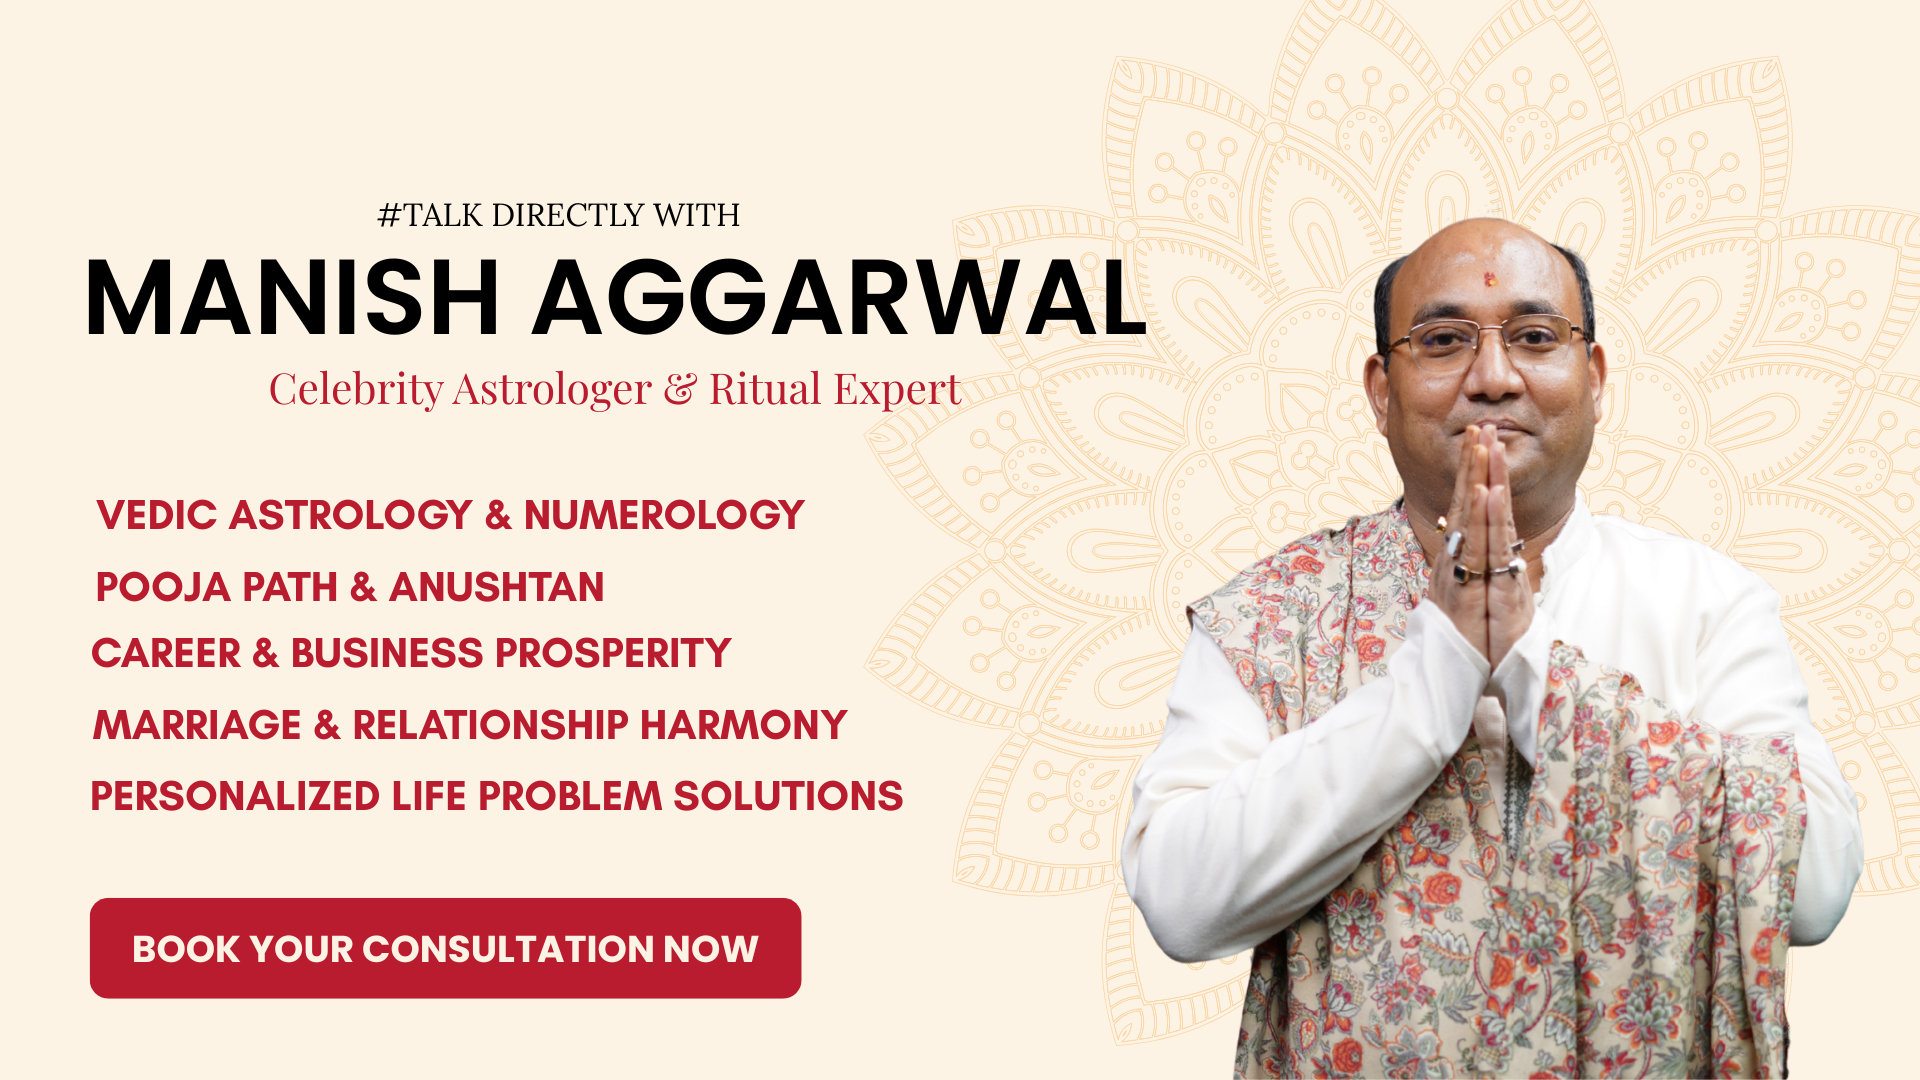
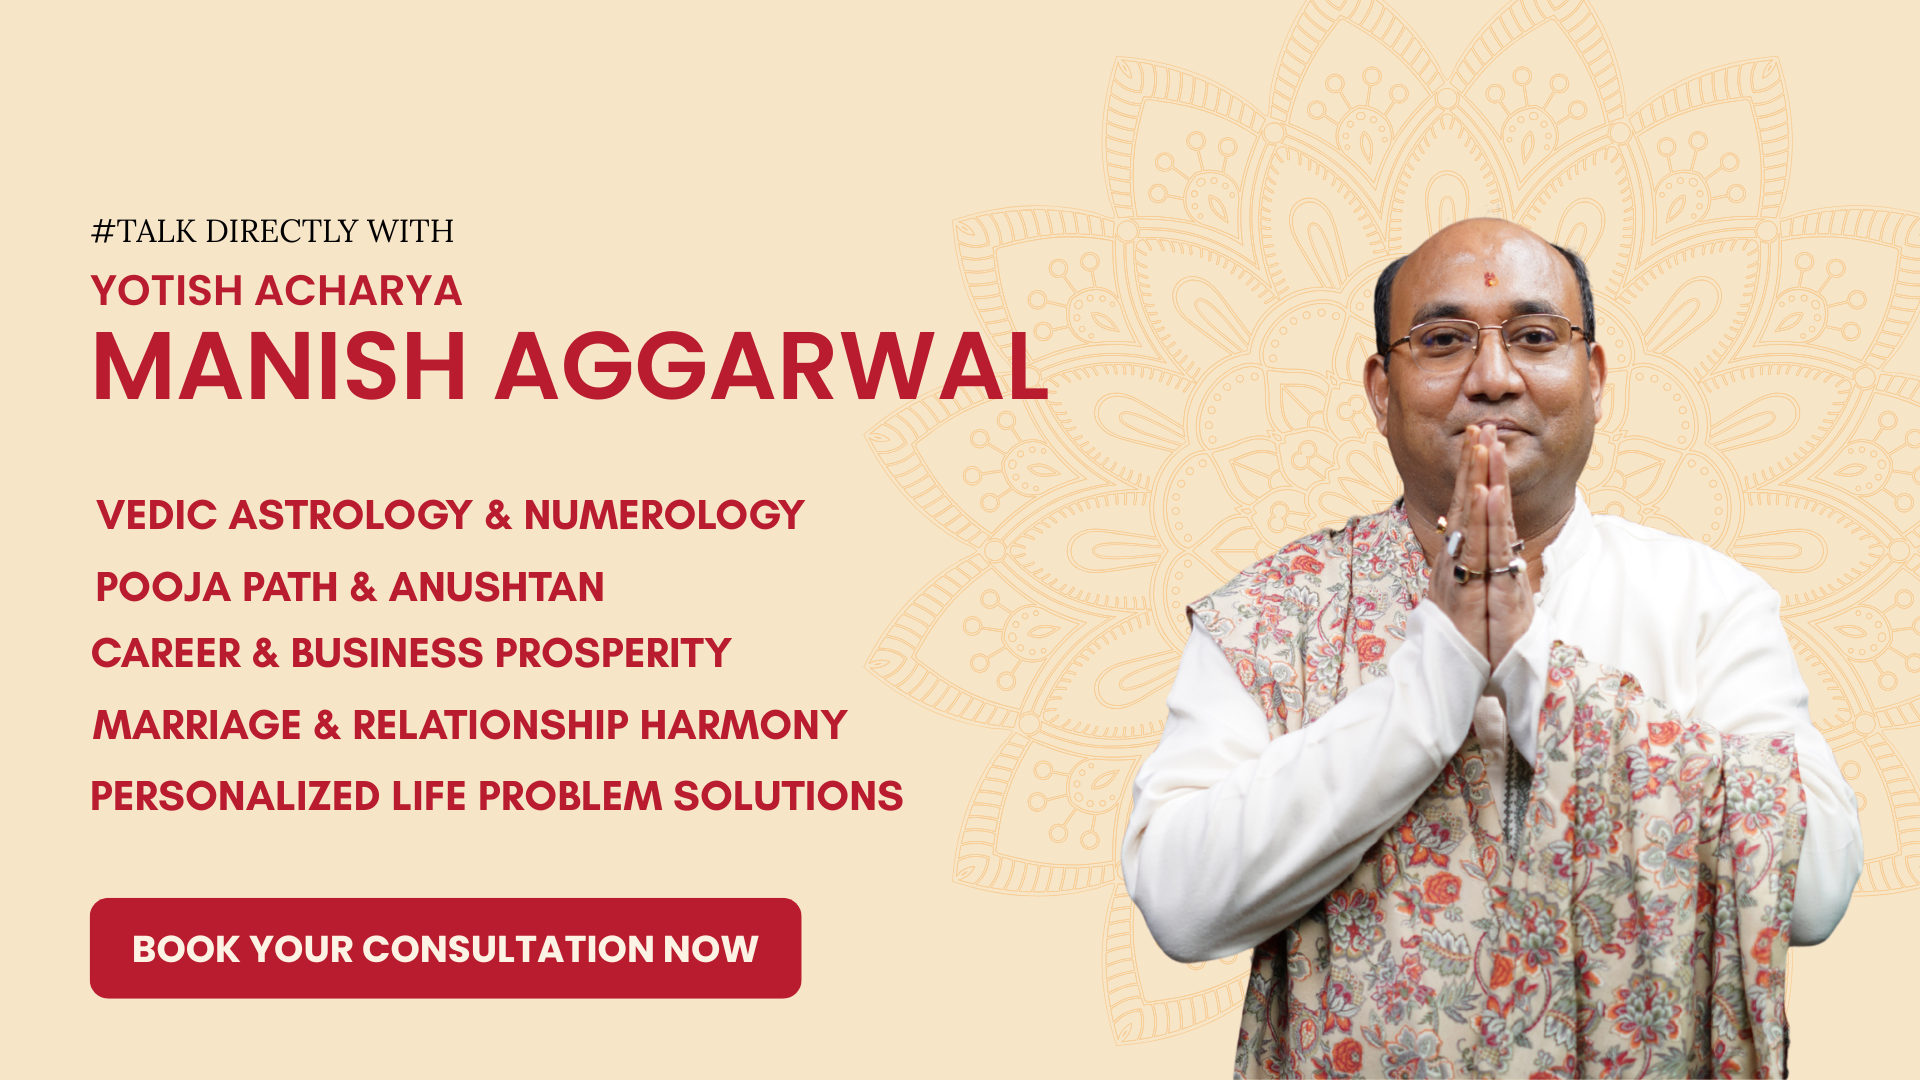
kundli booking done email

diff --git a/src/lib/integrations/email.ts b/src/lib/integrations/email.ts
@@ -1,0 +1,218 @@
+import nodemailer from "nodemailer";
+
+import type { KundliLanguage, KundliPlan } from "@/lib/integrations/aisensy";
+import { DETAILED_KUNDLI_AMOUNT_INR } from "@/lib/kundli/pricing";
+
+type SendKundliEmailInput = {
+  toEmail: string;
+  fullName: string;
+  plan: KundliPlan;
+  language: KundliLanguage;
+  dob: string;
+  timeOfBirth: string;
+  city: string;
+  state: string;
+  country: string;
+  /** Only present for paid (detailed) plan */
+  amountPaid?: number;
+};
+
+type SendEmailResult = {
+  sent: boolean;
+  reason?: string;
+};
+
+function createTransporter() {
+  const user = process.env.GMAIL_SMTP_USER;
+  const pass = process.env.GMAIL_SMTP_APP_PASSWORD;
+
+  if (!user || !pass) {
+    return null;
+  }
+
+  return nodemailer.createTransport({
+    service: "gmail",
+    auth: { user, pass },
+  });
+}
+
+function formatDob(dob: string): string {
+  const date = new Date(`${dob}T12:00:00`);
+  if (Number.isNaN(date.valueOf())) return dob;
+  return date.toLocaleDateString("en-IN", {
+    day: "numeric",
+    month: "long",
+    year: "numeric",
+  });
+}
+
+function buildEmailHtml(input: SendKundliEmailInput): string {
+  const firstName = input.fullName.trim().split(/\s+/)[0];
+  const planLabel = input.plan === "basic" ? "Basic Kundli" : "Detailed Kundli";
+  const languageLabel = input.language === "hindi" ? "हिंदी (Hindi)" : "English";
+  const paymentLine =
+    input.plan === "detailed"
+      ? `<tr>
+          <td style="padding:8px 0;color:#666;font-size:14px;">Payment</td>
+          <td style="padding:8px 0;font-size:14px;font-weight:600;color:#1a1a1a;">
+            ₹${input.amountPaid ?? DETAILED_KUNDLI_AMOUNT_INR} — Paid ✅
+          </td>
+        </tr>`
+      : `<tr>
+          <td style="padding:8px 0;color:#666;font-size:14px;">Payment</td>
+          <td style="padding:8px 0;font-size:14px;font-weight:600;color:#1a1a1a;">Free</td>
+        </tr>`;
+
+  return `<!DOCTYPE html>
+<html lang="en">
+<head>
+  <meta charset="UTF-8" />
+  <meta name="viewport" content="width=device-width, initial-scale=1.0" />
+  <title>Kundli Request Confirmed</title>
+</head>
+<body style="margin:0;padding:0;background:#f5f0e8;font-family:'Segoe UI',Arial,sans-serif;">
+  <table width="100%" cellpadding="0" cellspacing="0" style="background:#f5f0e8;padding:32px 16px;">
+    <tr>
+      <td align="center">
+        <table width="100%" cellpadding="0" cellspacing="0" style="max-width:560px;background:#ffffff;border-radius:16px;overflow:hidden;box-shadow:0 4px 24px rgba(0,0,0,0.08);">
+
+          <!-- Header -->
+          <tr>
+            <td style="background:#B91C2E;padding:32px 40px;text-align:center;">
+              <p style="margin:0 0 8px;font-size:13px;font-weight:700;letter-spacing:2px;text-transform:uppercase;color:rgba(255,255,255,0.75);">
+                Astro Vedic Kundli
+              </p>
+              <h1 style="margin:0;font-size:24px;font-weight:800;color:#ffffff;line-height:1.3;">
+                Kundli Request Confirmed ✅
+              </h1>
+            </td>
+          </tr>
+
+          <!-- Greeting -->
+          <tr>
+            <td style="padding:32px 40px 0;">
+              <p style="margin:0;font-size:16px;color:#333355;line-height:1.6;">
+                Namaste <strong>${firstName}</strong> 🙏
+              </p>
+              <p style="margin:12px 0 0;font-size:15px;color:#555;line-height:1.7;">
+                We have received your <strong>${planLabel}</strong> request. Your kundli will be
+                prepared in <strong>${languageLabel}</strong> and sent to your
+                <strong>WhatsApp number</strong> within <strong>24–48 hours</strong>.
+              </p>
+            </td>
+          </tr>
+
+          <!-- Details card -->
+          <tr>
+            <td style="padding:24px 40px;">
+              <table width="100%" cellpadding="0" cellspacing="0"
+                style="background:#fdf6ec;border-radius:12px;padding:20px 24px;border:1px solid #f0e0c8;">
+                <tr>
+                  <td colspan="2" style="padding-bottom:12px;">
+                    <p style="margin:0;font-size:11px;font-weight:700;letter-spacing:1.5px;text-transform:uppercase;color:#B91C2E;">
+                      Your Details
+                    </p>
+                  </td>
+                </tr>
+                <tr>
+                  <td style="padding:8px 0;color:#666;font-size:14px;width:40%;">Name</td>
+                  <td style="padding:8px 0;font-size:14px;font-weight:600;color:#1a1a1a;">${input.fullName.trim()}</td>
+                </tr>
+                <tr>
+                  <td style="padding:8px 0;color:#666;font-size:14px;">Plan</td>
+                  <td style="padding:8px 0;font-size:14px;font-weight:600;color:#1a1a1a;">${planLabel}</td>
+                </tr>
+                <tr>
+                  <td style="padding:8px 0;color:#666;font-size:14px;">Language</td>
+                  <td style="padding:8px 0;font-size:14px;font-weight:600;color:#1a1a1a;">${languageLabel}</td>
+                </tr>
+                <tr>
+                  <td style="padding:8px 0;color:#666;font-size:14px;">Date of Birth</td>
+                  <td style="padding:8px 0;font-size:14px;font-weight:600;color:#1a1a1a;">${formatDob(input.dob)}</td>
+                </tr>
+                <tr>
+                  <td style="padding:8px 0;color:#666;font-size:14px;">Time of Birth</td>
+                  <td style="padding:8px 0;font-size:14px;font-weight:600;color:#1a1a1a;">${input.timeOfBirth}</td>
+                </tr>
+                <tr>
+                  <td style="padding:8px 0;color:#666;font-size:14px;">Place of Birth</td>
+                  <td style="padding:8px 0;font-size:14px;font-weight:600;color:#1a1a1a;">${input.city}, ${input.state}, ${input.country}</td>
+                </tr>
+                ${paymentLine}
+              </table>
+            </td>
+          </tr>
+
+          <!-- WhatsApp note -->
+          <tr>
+            <td style="padding:0 40px 24px;">
+              <table width="100%" cellpadding="0" cellspacing="0"
+                style="background:#f0fdf4;border-radius:10px;padding:16px 20px;border:1px solid #bbf7d0;">
+                <tr>
+                  <td>
+                    <p style="margin:0;font-size:14px;color:#166534;line-height:1.6;">
+                      📱 <strong>Your kundli will be delivered on WhatsApp</strong> within 24–48 hours.
+                      Please ensure your WhatsApp is active on the number you provided.
+                    </p>
+                  </td>
+                </tr>
+              </table>
+            </td>
+          </tr>
+
+          <!-- Divider -->
+          <tr>
+            <td style="padding:0 40px;">
+              <hr style="border:none;border-top:1px solid #f0e0c8;margin:0;" />
+            </td>
+          </tr>
+
+          <!-- Footer -->
+          <tr>
+            <td style="padding:24px 40px 32px;text-align:center;">
+              <p style="margin:0 0 8px;font-size:13px;color:#999;">
+                Questions? Reply to this email or reach us on WhatsApp.
+              </p>
+              <p style="margin:0;font-size:12px;color:#bbb;">
+                © Astro Vedic Kundli · astrovedickundli.com
+              </p>
+            </td>
+          </tr>
+
+        </table>
+      </td>
+    </tr>
+  </table>
+</body>
+</html>`;
+}
+
+export async function sendKundliConfirmationEmail(
+  input: SendKundliEmailInput
+): Promise<SendEmailResult> {
+  const transporter = createTransporter();
+
+  if (!transporter) {
+    return { sent: false, reason: "Gmail SMTP credentials are not configured." };
+  }
+
+  const senderName = process.env.GMAIL_SENDER_NAME || "Astro Vedic Kundli";
+  const fromAddress = process.env.GMAIL_SMTP_USER!;
+  const planLabel = input.plan === "basic" ? "Basic Kundli" : "Detailed Kundli";
+
+  try {
+    await transporter.sendMail({
+      from: `"${senderName}" <${fromAddress}>`,
+      to: input.toEmail,
+      subject: `Kundli Request Confirmed — ${planLabel} | Astro Vedic Kundli`,
+      html: buildEmailHtml(input),
+    });
+
+    return { sent: true };
+  } catch (error) {
+    return {
+      sent: false,
+      reason: error instanceof Error ? error.message : "Unknown email error.",
+    };
+  }
+}

diff --git a/src/app/api/kundli/confirm/route.ts b/src/app/api/kundli/confirm/route.ts
@@ -4,6 +4,7 @@ import { NextResponse } from "next/server";
 
 import type { KundliLanguage, KundliPlan } from "@/lib/integrations/aisensy";
 import { sendAisensyKundliConfirmation } from "@/lib/integrations/aisensy";
+import { sendKundliConfirmationEmail } from "@/lib/integrations/email";
 import { DETAILED_KUNDLI_AMOUNT_INR } from "@/lib/kundli/pricing";
 import { verifyRazorpaySignature } from "@/lib/integrations/razorpay";
 
@@ -74,6 +75,8 @@ export async function POST(request: Request) {
       }
     }
 
+    const amountPaid = body.plan === "detailed" ? DETAILED_KUNDLI_AMOUNT_INR : undefined;
+
     // ── WhatsApp confirmation ─────────────────────────────────────────────────
     const isWhatsappEnabled = process.env.ENABLE_AISENSY_WHATSAPP === "true";
 
@@ -83,9 +86,25 @@ export async function POST(request: Request) {
           whatsappNumber: body.phone.trim(),
           plan: body.plan,
           language: body.language,
-          amountPaid: body.plan === "detailed" ? DETAILED_KUNDLI_AMOUNT_INR : undefined,
+          amountPaid,
         })
       : { sent: false, reason: "AiSensy WhatsApp integration is disabled." };
+
+    // ── Email confirmation (only when user provided an email) ─────────────────
+    const emailResult = body.email?.trim()
+      ? await sendKundliConfirmationEmail({
+          toEmail: body.email.trim(),
+          fullName: body.fullName.trim(),
+          plan: body.plan,
+          language: body.language,
+          dob: body.dob,
+          timeOfBirth: body.timeOfBirth,
+          city: body.city.trim(),
+          state: body.state.trim(),
+          country: body.country.trim(),
+          amountPaid,
+        })
+      : { sent: false, reason: "No email provided." };
 
     const requestId = `KN-${crypto.randomUUID().slice(0, 8).toUpperCase()}`;
 
@@ -94,6 +113,7 @@ export async function POST(request: Request) {
       plan: body.plan,
       language: body.language,
       whatsapp: whatsappResult,
+      email: emailResult,
       ...(body.plan === "detailed" && {
         payment: {
           razorpayOrderId: body.payment!.razorpay_order_id,
